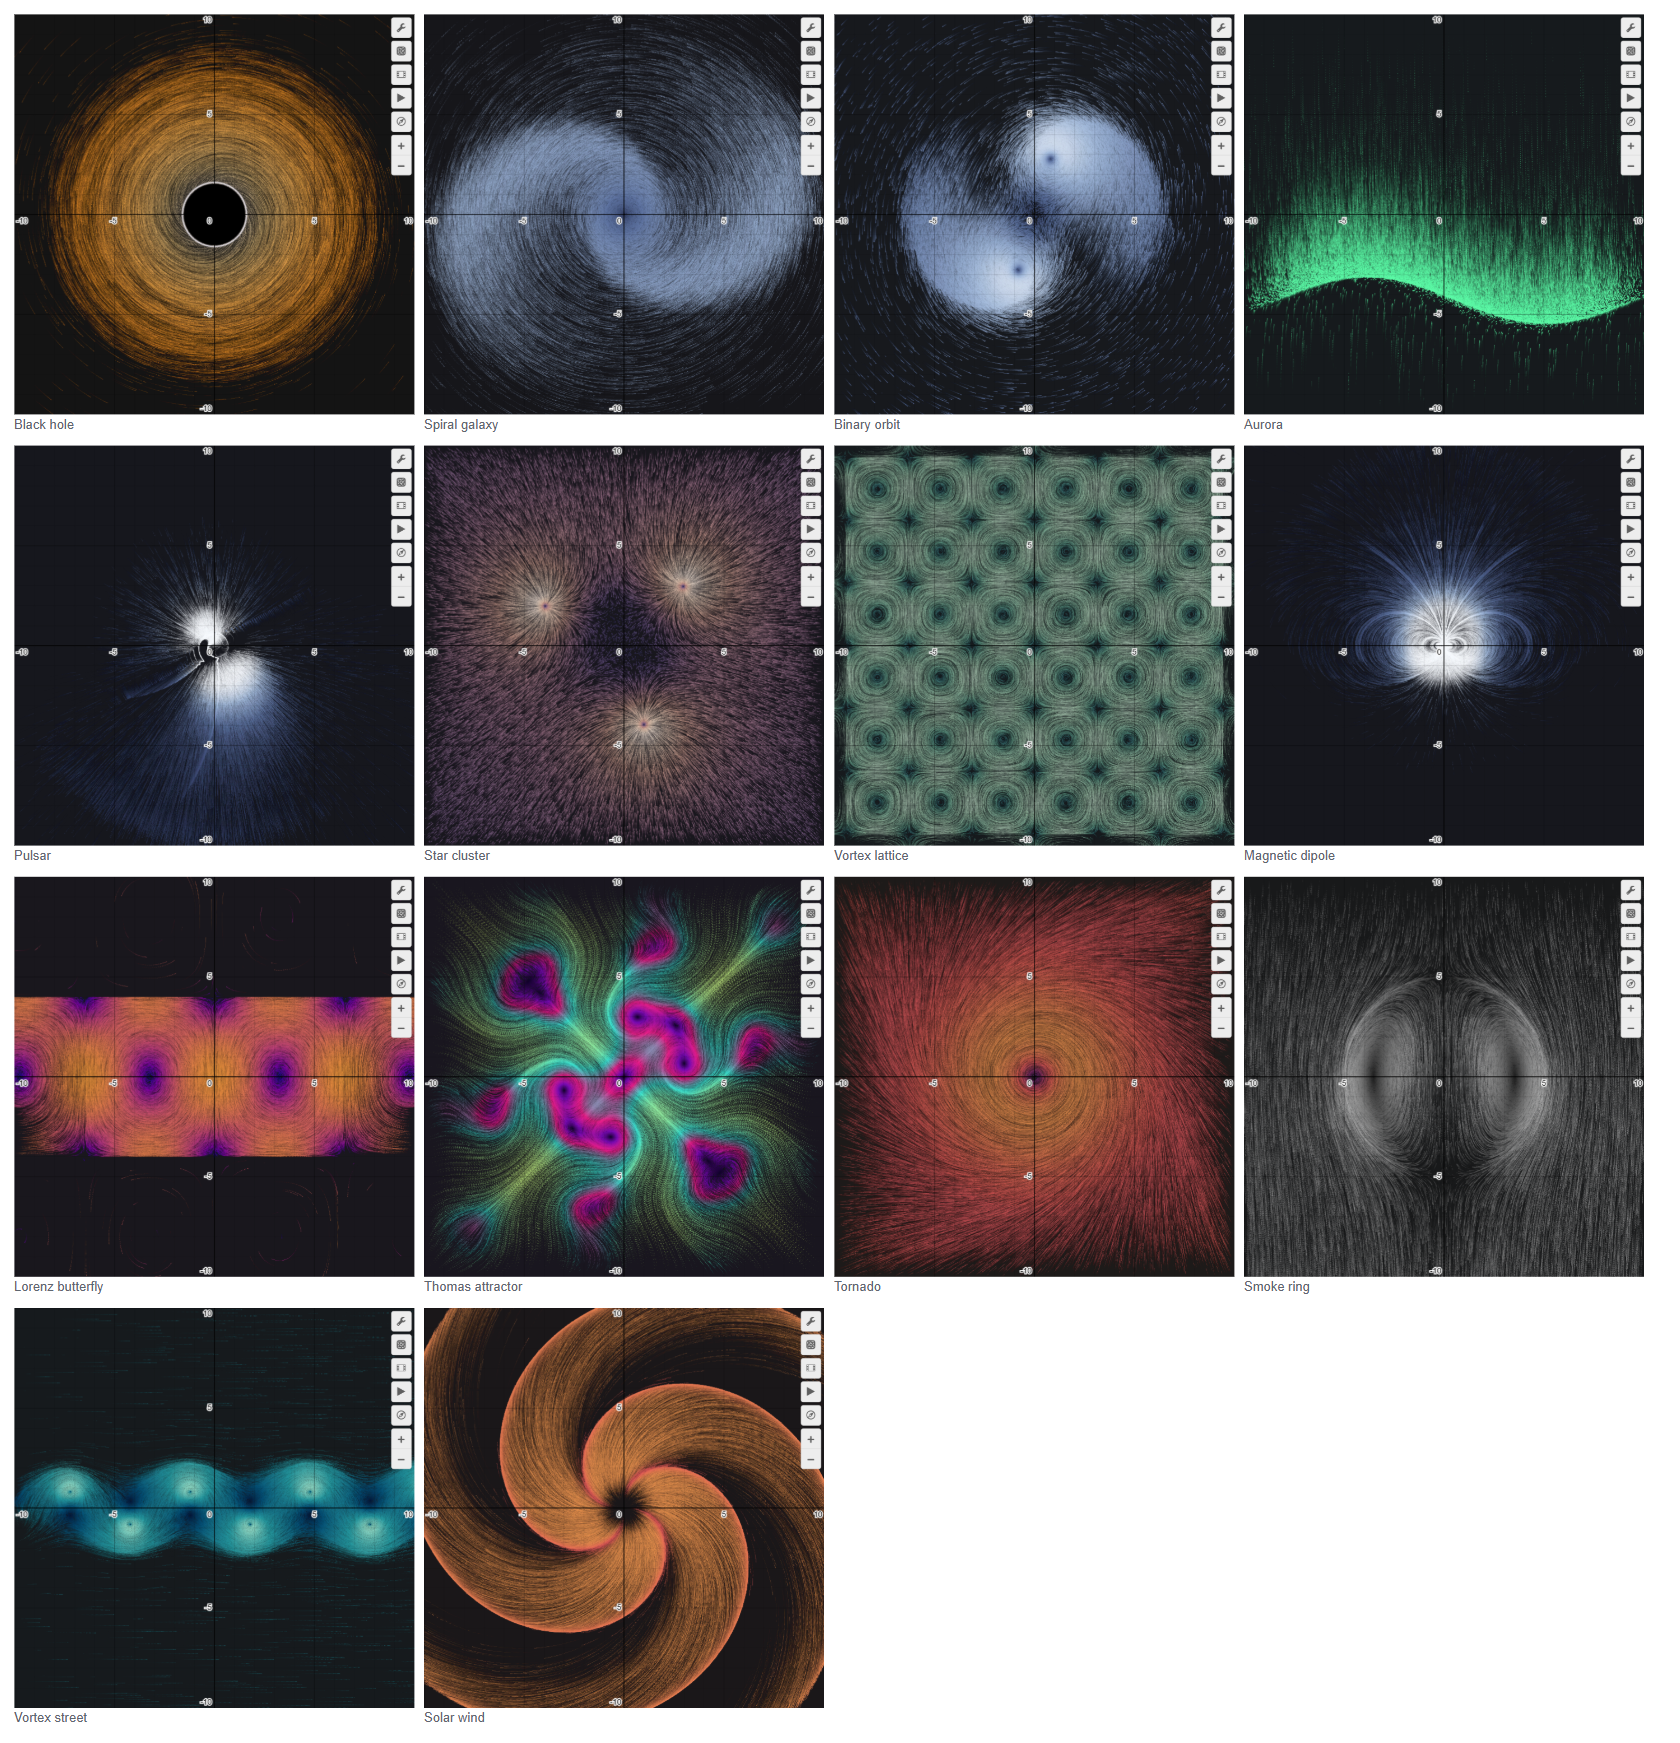
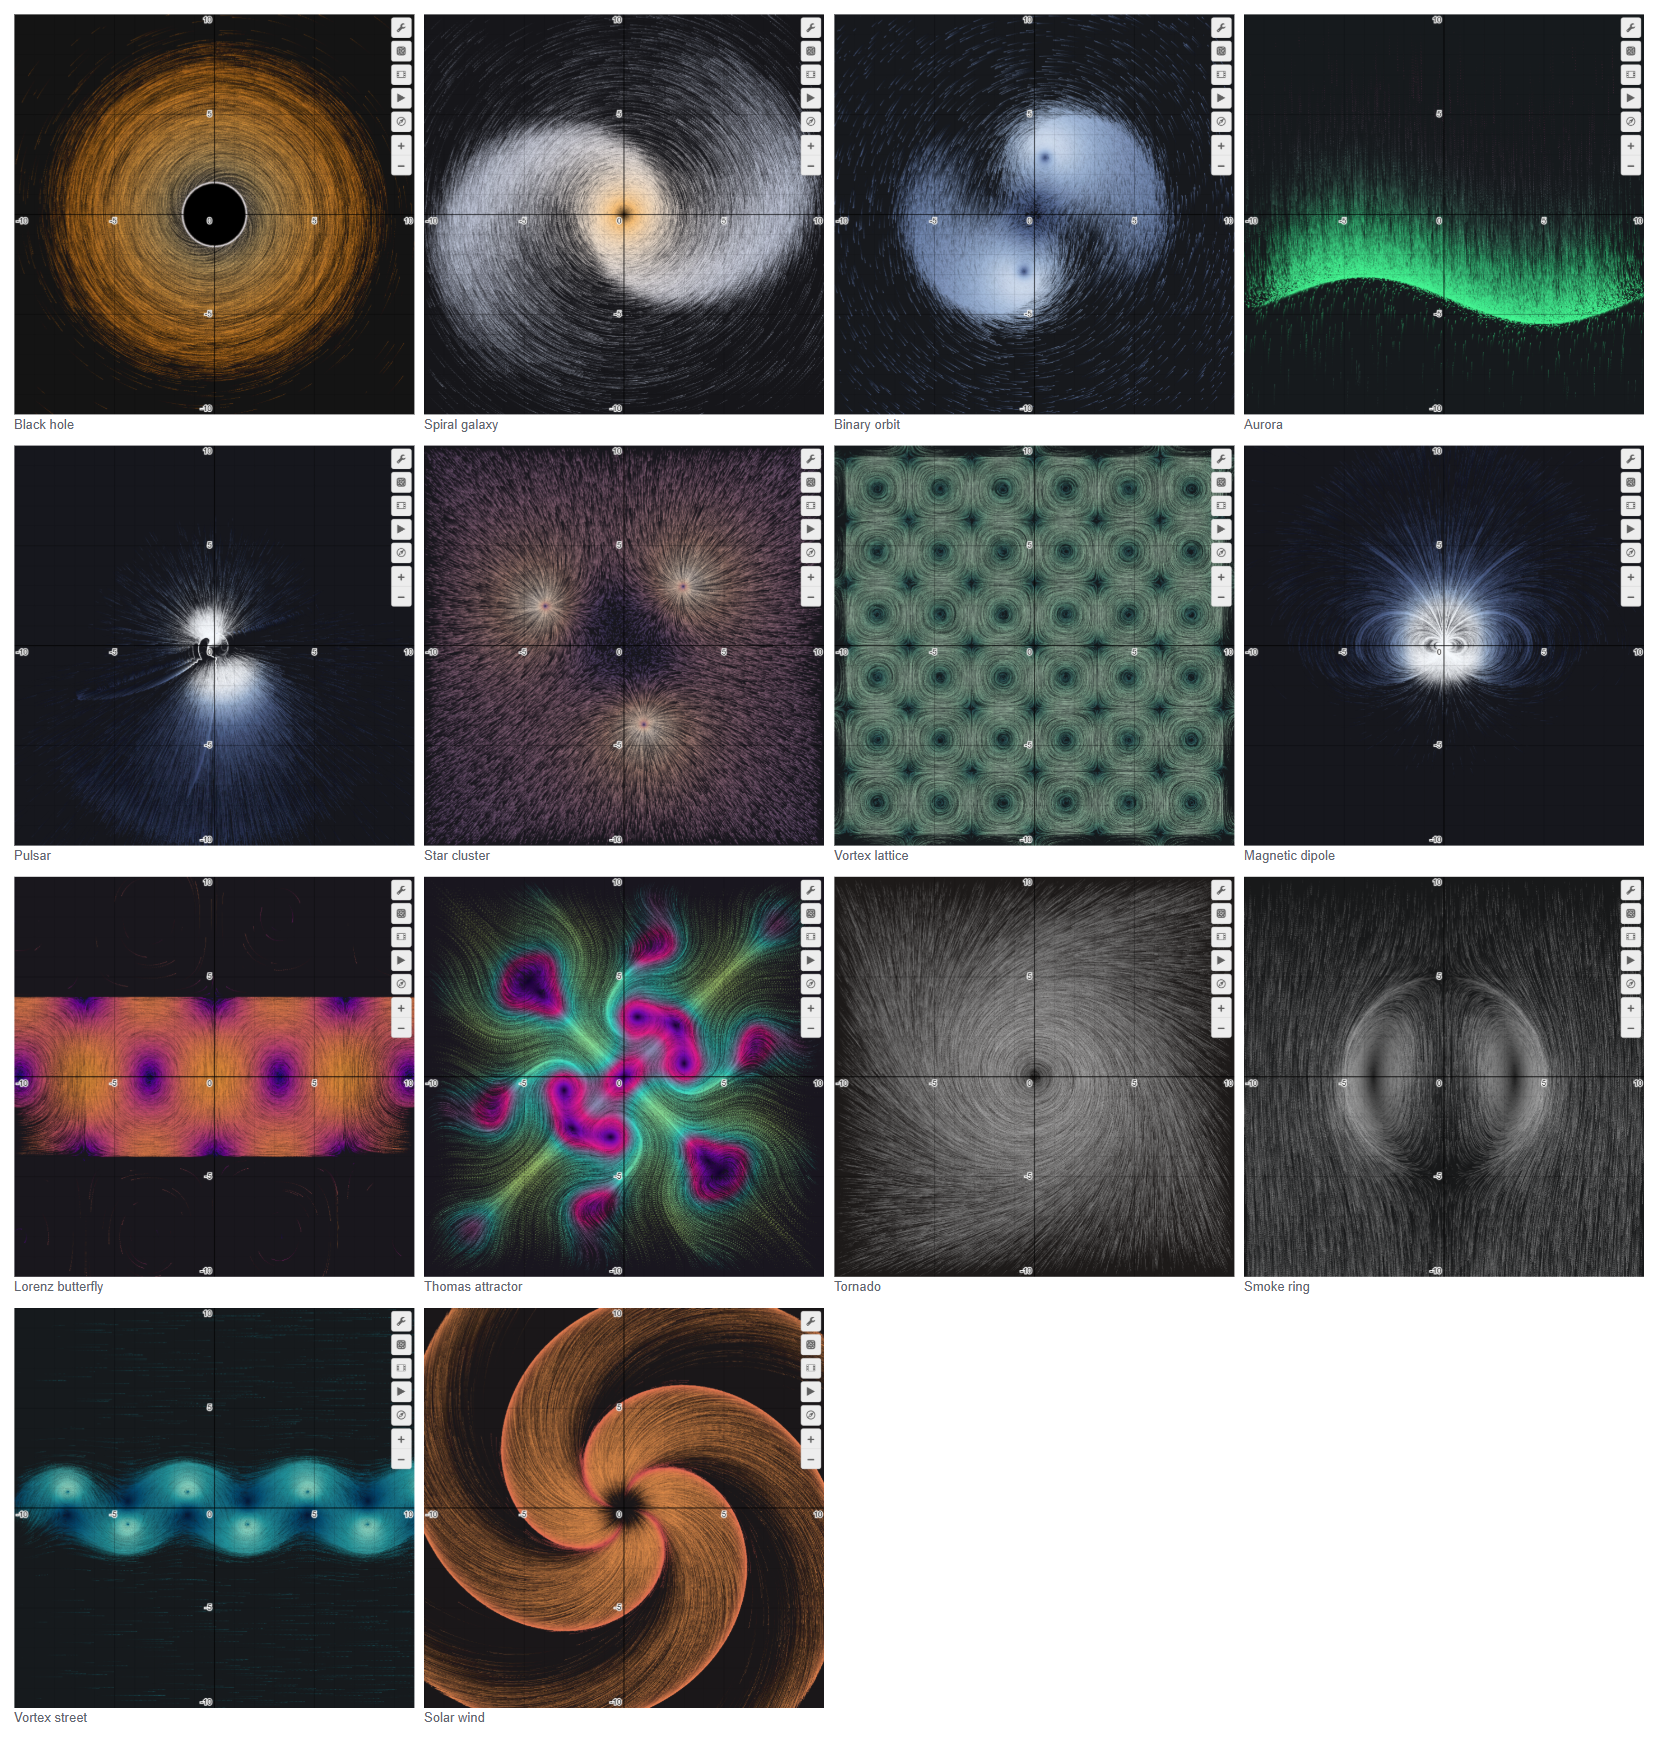
Give the galaxy and the aurora their real colours, and the weak presets structure
The galaxy and the aurora were drawn in palettes that only resembled them.
Two new ramps are the real thing: Galaxy runs from the warm yellow of the old
stars in a bulge to the blue of the young ones in the arms, which with the
rotation curve rising from the centre puts each colour where it belongs; and
Auroral runs from oxygen's green line at 557.7 nm through to its red at 630
nm, so the aurora, whose rays fall fastest high up and slow to its edge, is
green along its lower edge and red and pink above, as photographs show.

Three presets were a box of fuzz and now have structure: the binary's vortex
tubes are drawn as smoke ringing each core, the Taylor–Green vortex as three
thin layers at z = 0 and ±π that turn opposite ways, and the dipole fainter
where every field line meets. The 2D galaxy's arms are narrower, the 2D black
hole's rings stronger, the tornado grey like dust and cloud, and the pulsar
turns slowly enough for its particles to follow its field.

diff --git a/src/field-rendering/gallery.ts b/src/field-rendering/gallery.ts
@@ -171,7 +171,7 @@ export const FIELD_GALLERY: readonly GalleryPreset[] = [
     yLatex: String.raw`\frac{3\left(x-y\left(0.05+0.9e^{-0.25\left(x^{2}+y^{2}\right)}\right)\right)}{\left(x^{2}+y^{2}+0.1\right)^{0.75}}`,
     // The disk from the innermost stable orbit outward, ringed, denser
     // inward; and a faint haze close in, gas being drawn down into the hole.
-    seedLatex: String.raw`\frac{\left(0.65+0.35\sin\left(5.5\sqrt{x^{2}+y^{2}}\right)\right)\cdot\frac{3}{\sqrt{x^{2}+y^{2}}}}{\left(1+e^{-7\left(\sqrt{x^{2}+y^{2}}-2.8\right)}\right)\left(1+e^{2.5\left(\sqrt{x^{2}+y^{2}}-8\right)}\right)}+0.05e^{-0.3\left(x^{2}+y^{2}\right)}`,
+    seedLatex: String.raw`\frac{\left(0.3+0.7\sin\left(2.75\sqrt{x^{2}+y^{2}}\right)^{2}\right)\cdot\frac{3}{\sqrt{x^{2}+y^{2}}}}{\left(1+e^{-7\left(\sqrt{x^{2}+y^{2}}-2.8\right)}\right)\left(1+e^{2.5\left(\sqrt{x^{2}+y^{2}}-8\right)}\right)}+0.05e^{-0.3\left(x^{2}+y^{2}\right)}`,
     lensHorizon: 0.6,
     colorScale: 1,
     palette: "blackbody",
@@ -228,9 +228,9 @@ export const FIELD_GALLERY: readonly GalleryPreset[] = [
     yLatex: String.raw`\frac{2x}{1.5+\sqrt{x^{2}+y^{2}}}`,
     // Two logarithmic arms, a density wave the stars pass through, on an
     // exponential disk with an edge; a round bulge.
-    seedLatex: String.raw`\left(0.02+\left(\frac{1+\frac{\left(x^{2}-y^{2}\right)\cos\left(1.6\ln\left(x^{2}+y^{2}+0.01\right)-0.15t\right)+2xy\sin\left(1.6\ln\left(x^{2}+y^{2}+0.01\right)-0.15t\right)}{x^{2}+y^{2}+0.01}}{2}\right)^{12}\right)\frac{e^{-0.12\sqrt{x^{2}+y^{2}}}}{1+e^{2\left(\sqrt{x^{2}+y^{2}}-9\right)}}+e^{-0.5\left(x^{2}+y^{2}\right)}`,
+    seedLatex: String.raw`\left(0.01+\left(\frac{1+\frac{\left(x^{2}-y^{2}\right)\cos\left(1.6\ln\left(x^{2}+y^{2}+0.01\right)-0.15t\right)+2xy\sin\left(1.6\ln\left(x^{2}+y^{2}+0.01\right)-0.15t\right)}{x^{2}+y^{2}+0.01}}{2}\right)^{16}\right)\frac{e^{-0.12\sqrt{x^{2}+y^{2}}}}{1+e^{2\left(\sqrt{x^{2}+y^{2}}-9\right)}}+e^{-0.5\left(x^{2}+y^{2}\right)}`,
     colorScale: 1.5,
-    palette: "starfield",
+    palette: "galaxy",
     backdrop: "#020206",
     flow: {
       particleCount: 45_000,
@@ -303,7 +303,7 @@ export const FIELD_GALLERY: readonly GalleryPreset[] = [
       yLatex: String.raw`\frac{x-2.4\cos t}{\left(x-2.4\cos t\right)^{2}+\left(y-2.4\sin t\right)^{2}+0.4}+\frac{x+2.4\cos t}{\left(x+2.4\cos t\right)^{2}+\left(y+2.4\sin t\right)^{2}+0.4}`,
       zLatex: String.raw`0.12\cos t`,
       // Smoke released round each core, as in a wind tunnel.
-      seedLatex: String.raw`\left(e^{-\frac{\left(x-2.4\cos t\right)^{2}+\left(y-2.4\sin t\right)^{2}}{2}}+e^{-\frac{\left(x+2.4\cos t\right)^{2}+\left(y+2.4\sin t\right)^{2}}{2}}\right)e^{-\frac{z^{2}}{6}}`,
+      seedLatex: String.raw`e^{-\frac{\left(\sqrt{\left(x-2.4\cos t\right)^{2}+\left(y-2.4\sin t\right)^{2}}-0.8\right)^{2}}{0.08}}+e^{-\frac{\left(\sqrt{\left(x+2.4\cos t\right)^{2}+\left(y+2.4\sin t\right)^{2}}-0.8\right)^{2}}{0.08}}`,
       look: {
         particles: 30_000,
         speed: 0.3,
@@ -330,8 +330,8 @@ export const FIELD_GALLERY: readonly GalleryPreset[] = [
     xLatex: String.raw`0.05`,
     yLatex: String.raw`-0.4\left(y-\left(-4+1.2\sin\left(0.35x+0.3t\right)\right)+0.3\right)`,
     seedLatex: String.raw`\frac{e^{-0.45\left(y-\left(-4+1.2\sin\left(0.35x+0.3t\right)\right)\right)}}{1+e^{-6\left(y-\left(-4+1.2\sin\left(0.35x+0.3t\right)\right)\right)}}\cdot\frac{0.6+0.4\sin\left(3x+0.5t\right)^{2}}{1+e^{1.5\left(\left|x\right|-8\right)}}`,
-    fixedColor: "#5cffa8",
-    palette: "aurora",
+    colorScale: 2,
+    palette: "auroral",
     backdrop: "#02060a",
     flow: {
       particleCount: 35_000,
@@ -366,8 +366,7 @@ export const FIELD_GALLERY: readonly GalleryPreset[] = [
         glow: 0.2,
         normalizeSpeed: false,
         absorb: true,
-        colorMode: "fixed",
-        fixedColor: "#5cffa8",
+        colorMode: "speed",
         backdrop: "#02060a",
         backdropOpacity: 1,
       },
@@ -398,7 +397,7 @@ export const FIELD_GALLERY: readonly GalleryPreset[] = [
       dropRate: 0.006,
     },
     extent: 10,
-    timeSpeed: 0.15,
+    timeSpeed: 0.1,
     space: {
       blurb:
         "A pulsar's magnetosphere: a neutron star whose magnetic axis is tilted from its spin axis, so the whole field turns with it. Charged particles stream off the magnetic poles along the field lines.",
@@ -497,6 +496,9 @@ export const FIELD_GALLERY: readonly GalleryPreset[] = [
       xLatex: String.raw`\sin\left(x\right)\cos\left(y\right)\cos\left(z\right)`,
       yLatex: String.raw`-\cos\left(x\right)\sin\left(y\right)\cos\left(z\right)`,
       zLatex: String.raw`0`,
+      // Three thin layers, at z = 0 and ±π, where the flow is strongest
+      // and turns opposite ways; w = 0 keeps each particle in its layer.
+      seedLatex: String.raw`e^{-\frac{z^{2}}{0.08}}+e^{-\frac{\left(z-3.1416\right)^{2}}{0.08}}+e^{-\frac{\left(z+3.1416\right)^{2}}{0.08}}`,
       look: {
         particles: 40_000,
         speed: 0.3,
@@ -547,11 +549,11 @@ export const FIELD_GALLERY: readonly GalleryPreset[] = [
       // Released round the magnet, a sphere of radius 1.
       seedLatex: String.raw`e^{-10\left(\sqrt{${r3}}-1.2\right)^{2}}`,
       look: {
-        particles: 25_000,
+        particles: 18_000,
         speed: 0.3,
         trail: 64,
         lifetime: 5,
-        opacity: 0.2,
+        opacity: 0.14,
         glow: 0.08,
         normalizeSpeed: true,
         absorb: true,
@@ -669,7 +671,7 @@ export const FIELD_GALLERY: readonly GalleryPreset[] = [
     colorScale: 1.2,
     backdrop: "#0a0605",
     extent: 10,
-    palette: "sunset",
+    palette: "grayscale",
     flow: {
       particleCount: 35_000,
       speed: 3,

diff --git a/src/field-rendering/palettes.ts b/src/field-rendering/palettes.ts
@@ -40,6 +40,8 @@ export type PaletteID =
   | "ocean"
   | "ember"
   | "blackbody"
+  | "galaxy"
+  | "auroral"
   | "neon"
   | "nebula"
   | "aurora"
@@ -276,6 +278,34 @@ export const PALETTES: Record<PaletteID, Palette> = {
       { at: 0.7, rgb: [255, 158, 45] },
       { at: 0.86, rgb: [255, 214, 140] },
       { at: 1, rgb: [250, 244, 255] },
+    ],
+  },
+  // A spiral galaxy's colours, slow to fast: the warm yellow of the old stars
+  // in the bulge, where the rotation curve starts low, to the blue of the
+  // young ones in the arms, where it has levelled off.
+  galaxy: {
+    name: "Galaxy",
+    group: "expressive",
+    stops: [
+      { at: 0, rgb: [30, 18, 8] },
+      { at: 0.3, rgb: [255, 196, 120] },
+      { at: 0.55, rgb: [255, 240, 225] },
+      { at: 0.8, rgb: [170, 200, 255] },
+      { at: 1, rgb: [110, 150, 255] },
+    ],
+  },
+  // An aurora's colours, by height: oxygen's green line at 557.7 nm low down,
+  // where the curtain's edge is, giving way to its red line at 630 nm and the
+  // pink and purple of nitrogen higher up.
+  auroral: {
+    name: "Auroral",
+    group: "expressive",
+    stops: [
+      { at: 0, rgb: [70, 255, 150] },
+      { at: 0.45, rgb: [60, 220, 140] },
+      { at: 0.7, rgb: [120, 170, 160] },
+      { at: 0.85, rgb: [200, 80, 150] },
+      { at: 1, rgb: [255, 60, 90] },
     ],
   },
   neon: {

diff --git a/src/plugins/vector-tools/gallery.unit.test.ts b/src/plugins/vector-tools/gallery.unit.test.ts
@@ -60,8 +60,8 @@ describe("loading one", () => {
     // These are flow pictures: an arrow grid is how you read a field, not how
     // you watch one.
     expect(config.arrowMode).toBe("off");
-    expect(config.flow.palette).toBe("starfield");
-    expect(config.color.palette).toBe("starfield");
+    expect(config.flow.palette).toBe("galaxy");
+    expect(config.color.palette).toBe("galaxy");
     // The backdrop is what keeps a near-black palette from disappearing into
     // white graph paper.
     expect(config.flow.backdropEnabled).toBe(true);
